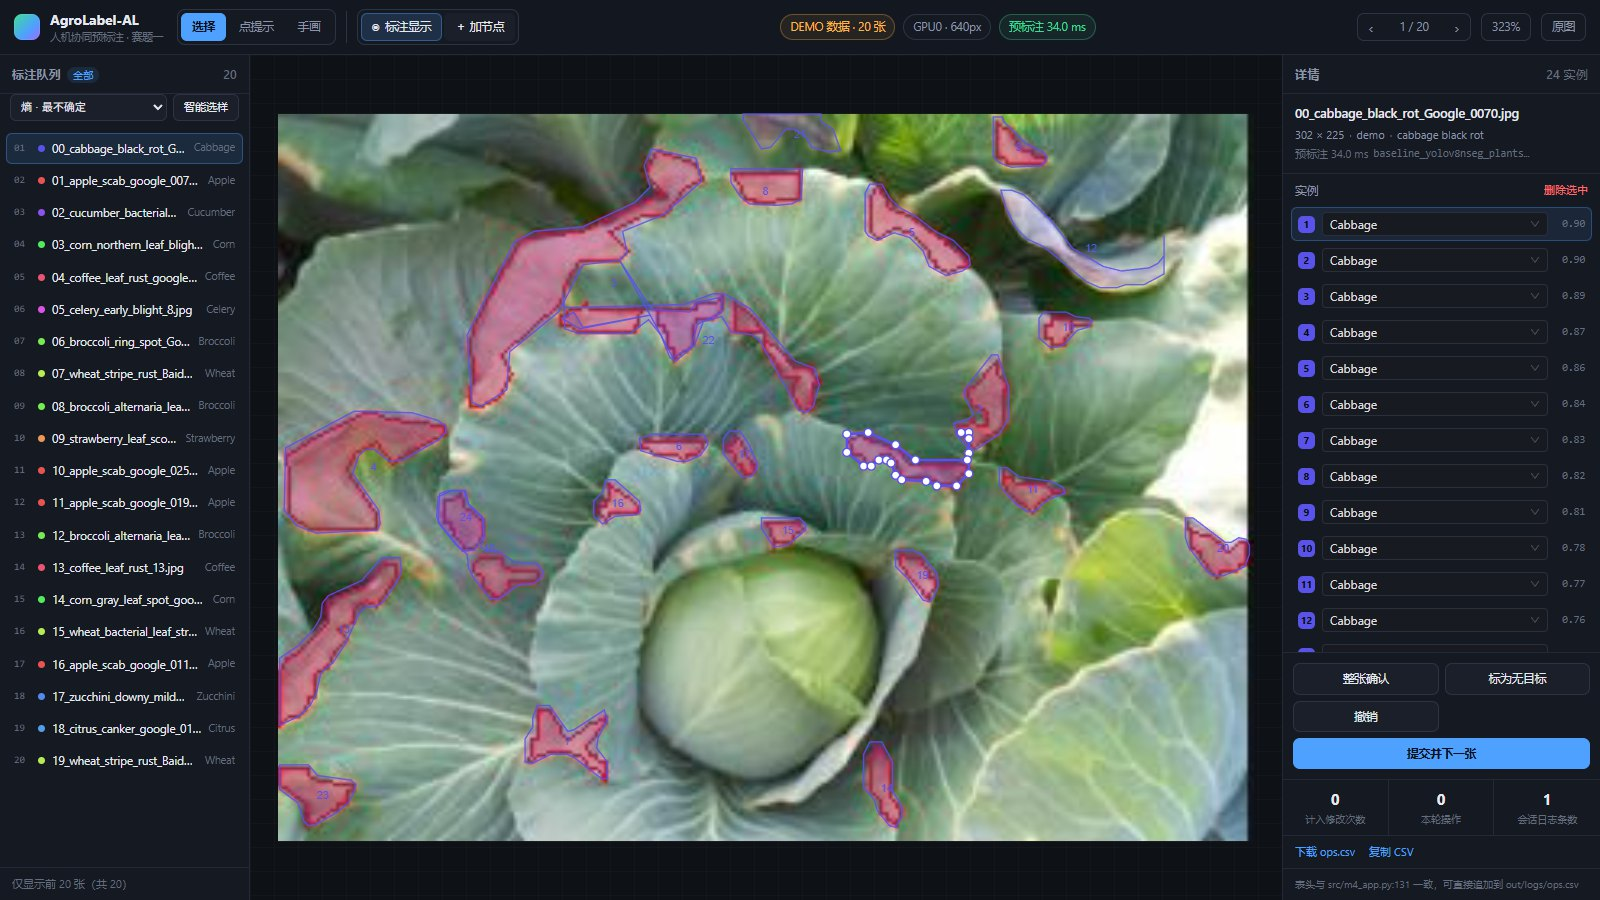
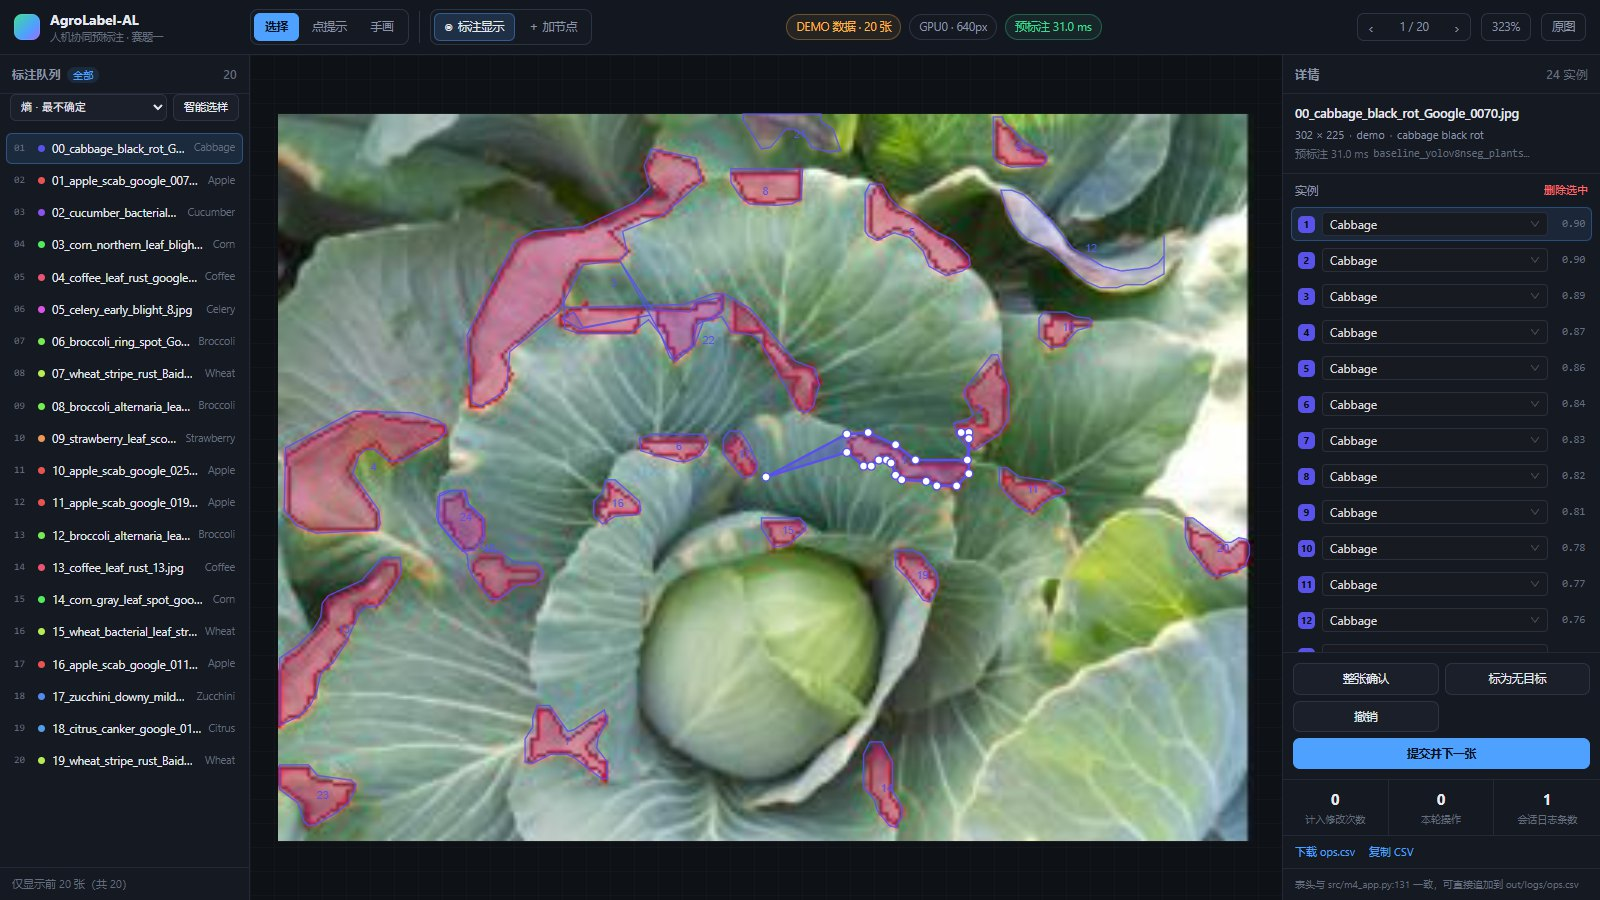
feat(frontend): 双击右键在鼠标处插节点；工具栏左边缘对齐画布
一、选择模式下双击右键插节点

在选中区域上，两次右键（≤520ms、位置差 ≤10px）即插一个顶点：
- 落点就是**鼠标所在位置**，不是固定位置
- 插进离点击处最近的**那条边**，把它劈成两段
  —— 即"离它最近的两个节点与它相连"
- 距离在**像素空间**里量点到线段距离。归一化空间会被宽高比拉伸，
  302x225 这类非方图上会选错边
- 记一条 `拖边界`，压一次撤销栈

浏览器不会给右键发 dblclick（那是主键专有事件），所以前端自己配对
（记上次右键的时间与位置）。顺带 preventDefault 挡掉原生右键菜单，
否则每插一个点弹一次菜单。

二、修一个连带 bug：右键会清空选中

Konva 的 click 不区分鼠标键，右键也会走 onStageClick，于是执行了
select(null) —— 导致紧接着的"双击右键加节点"永远拿不到 selectedId
（实测现象：toast 提示"先选中一个区域"，但用户明明选过了）。
现在非主键（e.evt.button !== 0）一律忽略。

三、工具栏左边缘对齐画布左边缘

顶栏三列由 `auto auto 1fr auto` 改为 `250px minmax(0,1fr) 318px`，
与下方 .body 完全一致，于是工具组左边缘正好落在 x=250 即画布左边缘。
品牌占第一列（250px 内放得下），状态胶囊在中间列剩余空间居中，
翻页/缩放占第三列。

验证：
- tsc 0 错误、oxlint 0 警告 0 错误、vite build 通过
- 浏览器实测：选中第 1 个实例 -> 右键两次 ->
  `ops.csv` 出现 `拖边界,0,Cabbage 右键插节点（21 顶点）`（原 20 顶点）
- 对齐数值实测：左栏分隔线在 x=249，画布从 x=250 起；工具组左边缘 x=250，差 0px
- 0 console/page 错误

未机器验证：拖顶点（浏览器工具没有拖拽动作）。

Changed region(s): [[0.0938, 0.0, 0.375, 0.0622], [0.5, 0.0, 0.6875, 0.0622], [0.4688, 0.4667, 0.5312, 0.5289]]

diff --git a/frontend/src/components/CanvasStage.tsx b/frontend/src/components/CanvasStage.tsx
@@ -1,11 +1,12 @@
 /**
  * Konva 画布：显示原图 + 叠加预标注多边形。
  *
- * 交互（当前阶段）：
- *   - 滚轮缩放（以光标为锚点）
- *   - 拖拽平移
+ * 交互：
+ *   - 滚轮缩放（以光标为锚点）、拖拽平移、双击 / F 自适应
  *   - 点多边形选中、点空白取消
- *   - 双击 / F 键 自适应
+ *   - 选择模式：拖顶点微调；**双击右键**在鼠标处插一个顶点
+ *   - 点提示模式：点一下让模型重识别
+ *   - 手画模式：逐点单击、双击闭合
  *
  * 坐标约定：后端给的是**归一化**多边形，这里统一乘原图宽高还原成像素，
  * 再交给 Group 的 scale 变换。不要在这里做任何归一化又归一化的来回转换。
@@ -53,10 +54,14 @@ export function CanvasStage() {
   const beginVertexDrag = useStore((s) => s.beginVertexDrag)
   const moveVertex = useStore((s) => s.moveVertex)
   const endVertexDrag = useStore((s) => s.endVertexDrag)
+  const insertVertexAt = useStore((s) => s.insertVertexAt)
+  const toast = useStore((s) => s.toast)
 
   const [size, setSize] = useState({ width: 0, height: 0 })
   const [img, setImg] = useState<HTMLImageElement | null>(null)
   const [imgState, setImgState] = useState<'idle' | 'loading' | 'ok' | 'err'>('idle')
+  /** 上一次右键的时间与位置，用来识别「双击右键」（浏览器不给 button=2 的 dblclick） */
+  const rclickRef = useRef<{ t: number; x: number; y: number } | null>(null)
 
   // ---- 容器尺寸
   useEffect(() => {
@@ -183,6 +188,10 @@ export function CanvasStage() {
    */
   const onStageClick = useCallback(
     (e: Konva.KonvaEventObject<MouseEvent>) => {
+      // Konva 的 click 不区分鼠标键：右键也会走这里，于是会把选中清掉，
+      // 导致紧接着的"双击右键加节点"永远看不到 selectedId。主键之外一律忽略。
+      if (e.evt?.button !== 0) return
+
       const stage = stageRef.current
       const p = stage?.getPointerPosition()
       if (!p) return
@@ -225,6 +234,45 @@ export function CanvasStage() {
      drawAddPoint, drawCommit, toImagePx],
   )
 
+  /** 右键双击间隔与位置容差 */
+  const RCLICK_GAP_MS = 520
+  const RCLICK_SLOP_PX = 10
+
+  /**
+   * 选择模式下**双击右键**：在鼠标位置插一个顶点。
+   *
+   * 浏览器不会为右键触发 dblclick（那是主键专有事件），所以自己配对：
+   * 记录上一次右键的时间与位置，两次间隔够近就当成双击。
+   * 顺带把原生右键菜单挡掉 —— 否则每插一个点弹一次菜单。
+   */
+  const onStageContextMenu = useCallback(
+    (e: Konva.KonvaEventObject<PointerEvent>) => {
+      e.evt.preventDefault()
+
+      const p = stageRef.current?.getPointerPosition()
+      if (!p) return
+      const now = performance.now()
+      const prev = rclickRef.current
+      rclickRef.current = { t: now, x: p.x, y: p.y }
+
+      if (mode !== 'select') return
+      if (!prev || now - prev.t > RCLICK_GAP_MS) return
+      if (Math.hypot(p.x - prev.x, p.y - prev.y) > RCLICK_SLOP_PX) return
+
+      rclickRef.current = null
+      if (!selectedId) {
+        toast('先选中一个区域，再双击右键加节点', 'warn')
+        return
+      }
+      const px = toImagePx(p)
+      if (!px || !imgW || !imgH) return
+      if (!insertVertexAt(px.x, px.y, imgW, imgH)) {
+        toast('这个区域顶点太少，加不了节点', 'warn')
+      }
+    },
+    [mode, selectedId, imgW, imgH, toImagePx, insertVertexAt, toast],
+  )
+
   return (
     <div className="stage-wrap" ref={wrapRef}>
       {size.width > 0 && (
@@ -234,6 +282,7 @@ export function CanvasStage() {
           height={size.height}
           onWheel={onWheel}
           onClick={onStageClick}
+          onContextMenu={onStageContextMenu}
           onDblClick={() => {
             // draw 模式下双击 = 闭合，不能顺手把视图重置了
             if (mode === 'draw') {

diff --git a/frontend/src/store.ts b/frontend/src/store.ts
@@ -138,6 +138,12 @@ type Store = {
   endVertexDrag: () => void
   /** 给选中实例插入一个顶点（落在最长边的中点）。选中了才可用。 */
   addVertex: () => boolean
+  /**
+   * 在指定位置插一个顶点：找离该点最近的边，把它劈成两段。
+   * 坐标用**图像像素**，内部转归一化 —— 距离必须在像素空间量，
+   * 否则 302×225 这种非方形图上归一化距离会被拉伸，选错边。
+   */
+  insertVertexAt: (px: number, py: number, imgW: number, imgH: number) => boolean
   /** 点提示：在图像像素坐标 (px,py) 处裁 ROI 重识别，成功后插入一个新实例 */
   refineAt: (px: number, py: number) => Promise<void>
   /** 主动学习选样，把结果换成新队列 */
@@ -582,6 +588,56 @@ export const useStore = create<Store>((set, get) => ({
       '拖边界',
       `${sel.class_name} 加节点（${polygon.length} 顶点）`,
       instances.findIndex((i) => i.id === sel.id), // 下标，不是总数
+    )
+    return true
+  },
+
+  insertVertexAt: (px, py, imgW, imgH) => {
+    const { instances, selectedId, undoStack, nOps, labelState } = get()
+    const sel = instances.find((i) => i.id === selectedId)
+    if (!sel || sel.polygon.length < 3 || !imgW || !imgH) return false
+
+    // 点到线段的最短距离（像素空间）。夹紧到 [0,1] 再量，
+    // 否则点在线段延长线上时会误判成"很近"。
+    const segDist = (ax: number, ay: number, bx: number, by: number) => {
+      const dx = bx - ax
+      const dy = by - ay
+      const len2 = dx * dx + dy * dy
+      if (len2 === 0) return Math.hypot(px - ax, py - ay)
+      let t = ((px - ax) * dx + (py - ay) * dy) / len2
+      t = Math.max(0, Math.min(1, t))
+      return Math.hypot(px - (ax + t * dx), py - (ay + t * dy))
+    }
+
+    let edge = 0
+    let best = Infinity
+    for (let i = 0; i < sel.polygon.length; i++) {
+      const a = sel.polygon[i]
+      const b = sel.polygon[(i + 1) % sel.polygon.length]
+      const d = segDist(a[0] * imgW, a[1] * imgH, b[0] * imgW, b[1] * imgH)
+      if (d < best) {
+        best = d
+        edge = i
+      }
+    }
+
+    // 顶点落在鼠标位置，夹到图内
+    const nx = Math.min(1, Math.max(0, px / imgW))
+    const ny = Math.min(1, Math.max(0, py / imgH))
+    const polygon: [number, number][] = [
+      ...sel.polygon.slice(0, edge + 1),
+      [nx, ny],
+      ...sel.polygon.slice(edge + 1),
+    ]
+
+    set({
+      undoStack: [...undoStack, { instances, nOps, labelState }].slice(-MAX_UNDO),
+      instances: instances.map((it) => (it.id === sel.id ? { ...it, polygon } : it)),
+    })
+    get().logOp(
+      '拖边界',
+      `${sel.class_name} 右键插节点（${polygon.length} 顶点）`,
+      instances.findIndex((i) => i.id === sel.id),
     )
     return true
   },

diff --git a/frontend/src/components/TopBar.tsx b/frontend/src/components/TopBar.tsx
@@ -26,24 +26,26 @@ export function TopBar() {
         </div>
       </div>
 
-      <ToolBar />
+      <div className="topbar-center">
+        <ToolBar />
 
-      <div className="topbar-mid">
-        {ds && (
-          <span className={`chip ${ds.mode === 'demo' ? 'chip-warn' : 'chip-ok'}`} title={ds.note}>
-            {ds.mode === 'demo' ? 'DEMO 数据' : '正式数据集'} · {total} 张
-          </span>
-        )}
-        {mi && (
-          <span className="chip chip-plain" title={mi.model_version}>
-            {mi.device === 'cpu' ? 'CPU' : `GPU${mi.device}`} · {mi.imgsz}px
-          </span>
-        )}
-        {latencyMs != null && (
-          <span className={`chip ${latencyMs <= 300 ? 'chip-ok' : 'chip-warn'}`}>
-            预标注 {latencyMs.toFixed(1)} ms
-          </span>
-        )}
+        <div className="topbar-mid">
+          {ds && (
+            <span className={`chip ${ds.mode === 'demo' ? 'chip-warn' : 'chip-ok'}`} title={ds.note}>
+              {ds.mode === 'demo' ? 'DEMO 数据' : '正式数据集'} · {total} 张
+            </span>
+          )}
+          {mi && (
+            <span className="chip chip-plain" title={mi.model_version}>
+              {mi.device === 'cpu' ? 'CPU' : `GPU${mi.device}`} · {mi.imgsz}px
+            </span>
+          )}
+          {latencyMs != null && (
+            <span className={`chip ${latencyMs <= 300 ? 'chip-ok' : 'chip-warn'}`}>
+              预标注 {latencyMs.toFixed(1)} ms
+            </span>
+          )}
+        </div>
       </div>
 
       <div className="topbar-right">

diff --git a/frontend/src/styles.css b/frontend/src/styles.css
@@ -117,16 +117,24 @@ button { font: inherit; color: inherit; }
 
 .topbar {
   display: grid;
-  /* 品牌 | 工具 | 状态胶囊(居中) | 翻页缩放 */
-  grid-template-columns: auto auto 1fr auto;
+  /* 与 .body 完全一致的三列：工具栏左边缘因此正好压在画布左边缘上 */
+  grid-template-columns: 250px minmax(0, 1fr) 318px;
   align-items: center;
-  gap: 14px;
-  padding: 0 14px;
+  gap: 0;
   background: var(--bg-2);
   overflow: hidden;
 }
 
-.brand { display: flex; align-items: center; gap: 10px; }
+.brand { display: flex; align-items: center; gap: 10px; padding-left: 14px; overflow: hidden; }
+
+/* 中间列：工具组贴左（= 画布左边缘），状态胶囊在剩余空间里居中 */
+.topbar-center {
+  display: flex;
+  align-items: center;
+  gap: 14px;
+  min-width: 0;
+  overflow: hidden;
+}
 
 .brand-mark {
   width: 26px; height: 26px;
@@ -143,6 +151,7 @@ button { font: inherit; color: inherit; }
   align-items: center;
   justify-content: center;
   gap: 8px;
+  flex: 1;
   min-width: 0;
   overflow: hidden;
 }
@@ -179,7 +188,7 @@ button { font: inherit; color: inherit; }
 .chip-warn { color: var(--warn); border-color: rgba(255,182,72,.32); background: rgba(255,182,72,.08); }
 .chip-plain { color: var(--dim); }
 
-.topbar-right { display: flex; align-items: center; justify-content: flex-end; gap: 10px; }
+.topbar-right { display: flex; align-items: center; justify-content: flex-end; gap: 10px; padding-right: 14px; }
 
 .pager {
   display: flex;

diff --git a/frontend/README.md b/frontend/README.md
@@ -68,6 +68,7 @@ npm run dev          # http://localhost:5173
 | `P` | 点提示模式 |
 | `D` | 手画多边形模式 |
 | `H` | 显示 / 隐藏标注框 |
+| 双击右键 | 在选中区域上插一个顶点 |
 
 鼠标：滚轮缩放（以光标为锚点）、拖拽平移、双击自适应、点多边形选中。
 
@@ -95,9 +96,22 @@ npm run dev          # http://localhost:5173
 - **整段拖动只压一次撤销栈** —— 否则每帧压一次，`Ctrl+Z` 要按几百下
 - 松手记一条 `拖边界` 日志
 
-顶点不够用时，点顶栏 **`＋ 加节点`**（需先选中实例）：在**最长边的中点**插一个顶点，
-然后直接拖到准确位置。选最长的边是因为那里通常是多边形最粗糙、最需要补点的地方。
-没选中实例时按钮是禁用的。
+顶点不够用时有三种加点方式：
+
+| 方式 | 落点 | 适用 |
+|---|---|---|
+| **双击右键** | **鼠标所在位置**，插进离它最近的那条边 | 边界某处凹陷/凸起不准 |
+| `＋ 加节点` 按钮 | 最长边的中点 | 整条边画得太粗，先加点再拖 |
+| 手画 | 逐点单击 | 整个实例都没有 |
+
+**双击右键**是最常用的那个（`选择` 模式）。浏览器不会给右键发 `dblclick`，所以
+前端自己配对：两次右键间隔 ≤520ms、位置差 ≤10px 就算双击。新顶点落在离点击处
+**最近的那条边**上（在像素空间里量点到线段距离，避免非方图被拉伸后选错边），
+把这条边劈成两段 —— 也就是"离它最近的两个节点与它相连"。
+
+> 顺带把原生右键菜单挡掉了，否则每插一个点就弹一次菜单。
+
+`＋ 加节点` 需先选中实例，否则按钮禁用；没选就点会给 toast 提示。
 
 > `新画` / `拖边界` 都**不计入** m5 的修改次数（`m5_logstats.py` 只统计
 > `改类别` / `删实例` / `标为无目标`），但都会进 `m6_editcost.py` 的 breakdown ——
@@ -105,6 +119,8 @@ npm run dev          # http://localhost:5173
 
 > **工具栏为什么在顶栏而不在画布上**：病斑面积中位数只有整图的 0.3%，
 > 而画面左上角正是常有病灶的位置 —— 浮层会挡住要看的东西。
+> 顶栏三列（`250px | 1fr | 318px`）与下方 `.body` 完全一致，
+> 所以工具组左边缘正好压在画布左边缘（x=250）上。
 
 ### 显示 / 隐藏标注
 
